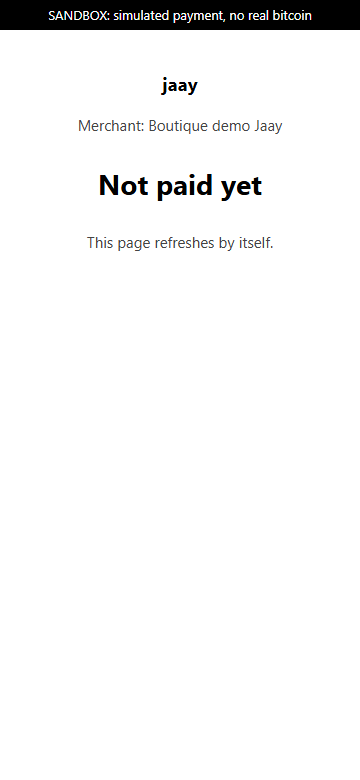
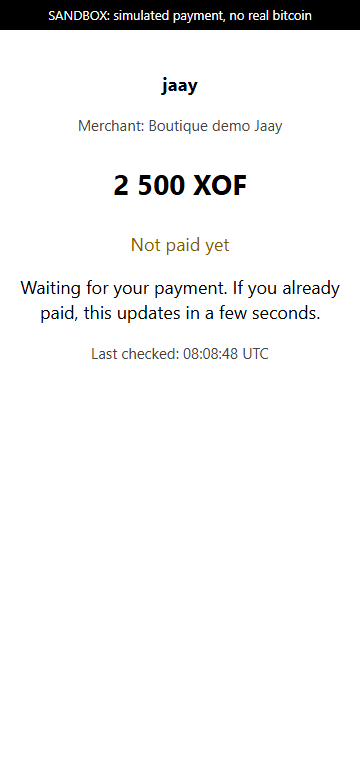
test(e2e), docs: no-horizontal-scroll checks at 320/360/412, refreshed EN and FR screens

Changed region(s): [[0.0611, 0.3077, 0.9472, 0.4615], [0.275, 0.2154, 0.7333, 0.2769]]

diff --git a/apps/pos/e2e/e2e.ts b/apps/pos/e2e/e2e.ts
@@ -17,6 +17,10 @@ const SERVER = fileURLToPath(new URL("../../server", import.meta.url));
 const SIM = fileURLToPath(new URL("../../customer-sim", import.meta.url));
 const SCREENS = fileURLToPath(new URL("../../../docs/screens", import.meta.url));
 const DIST = join(POS, "dist");
+// E2E_WIDTH=320|360|412 runs the whole suite at that width (default 360; screenshots only at 360). E2E_ONLY=layout runs just the layout step.
+const WIDTH = Number(process.env.E2E_WIDTH ?? 360);
+const ONLY = process.env.E2E_ONLY;
+const LAYOUT_WIDTHS = [...new Set([320, 360, WIDTH])];
 const PORT = 8797;
 const B = `http://localhost:${PORT}`;
 const HOST = `localhost:${PORT}`;
@@ -85,7 +89,7 @@ async function customerPays(qr: string): Promise<{ sid: string; code: string }> 
   const paid = await fetch(`${B}/sandbox/pay/${sid}`, { method: "POST" });
   assert(paid.ok, "sandbox pay failed");
   const html = await (await fetch(cb.successAction.url)).text();
-  const code = /class="code">(\d{6})</.exec(html)?.[1];
+  const code = codeIn(html);
   assert(code, "no code on the receipt page");
   return { sid, code: code! };
 }
@@ -117,15 +121,105 @@ async function statusOf(page: Page, sid: string): Promise<string | null> {
   await page.click("#tab-ledger");
   return page.getAttribute(`li[data-sid="${sid}"]`, "data-status");
 }
-const launch = (dir: string, offline = false) => chromium.launchPersistentContext(dir, { viewport: { width: 360, height: 780 }, locale: "en-US", offline });
+const launch = (dir: string, offline = false) => chromium.launchPersistentContext(dir, { viewport: { width: WIDTH, height: 780 }, locale: "en-US", offline });
+const shot = (page: Page, name: string, fullPage = false) => (WIDTH === 360 ? page.screenshot({ path: join(SCREENS, `${name}.png`), fullPage }) : Promise.resolve());
+mkdirSync(join(SCREENS, "fr"), { recursive: true });
 const sidOf = async (qr: string) => (await decodeSale((await tokenOf(qr)).token, keys, { minAmountXof: 1, maxAmountXof: 0xffffffff })).sid;
 
 
+// ---------- layout: no horizontal scroll on every screen, EN and FR; FR screenshot set at 360 px ----------
+const codeIn = (html: string) => (/class="vh">(\d{6})</.exec(html) ?? /class="code">(\d{6})</.exec(html))?.[1];
+await step("layout", `no horizontal scroll at ${LAYOUT_WIDTHS.join(", ")} px (EN, FR): PWA screens, simulator, receipt; primary button above the fold at 640 px high`, async () => {
+  const bad: string[] = [];
+  const seen: string[] = [];
+  for (const w of LAYOUT_WIDTHS) {
+    for (const lang of ["en", "fr"] as const) {
+      const ldir = mkdtempSync(join(tmpdir(), "jaay-layout-"));
+      const lctx = await chromium.launchPersistentContext(ldir, { viewport: { width: w, height: 640 }, locale: lang === "fr" ? "fr-FR" : "en-US" });
+      const shots = w === 360 && lang === "fr" && WIDTH === 360;
+      if (process.env.E2E_DEBUG) console.log(`  layout run ${w} ${lang}`);
+      const check = async (pg: Page, name: string) => {
+        const [sw, cw] = await pg.evaluate(() => [document.documentElement.scrollWidth, document.documentElement.clientWidth]);
+        seen.push(name);
+        if (sw !== cw) bad.push(`${w} ${lang} ${name}: ${sw} > ${cw}`);
+        if (shots) await pg.evaluate(() => scrollTo(0, 0));
+        if (shots && ["sell", "confirm", "wallet", "receipt-before", "receipt-after", "sim-request", "ledger"].includes(name)) await pg.screenshot({ path: join(SCREENS, "fr", `${name}.png`), fullPage: !["sell", "wallet"].includes(name) });
+      };
+      try {
+        const app = lctx.pages()[0] ?? (await lctx.newPage());
+        await app.goto(`${B}/app/`);
+        await app.waitForSelector("#demo-shop");
+        await check(app, "enroll");
+        await app.click("#demo-shop");
+        await app.check("#enroll-check");
+        await app.click("#enroll-submit");
+        await app.waitForSelector("#create");
+        await check(app, "keypad");
+        const qr = await sell(app, 2500);
+        await check(app, "sell");
+        const fold = await app.evaluate(() => {
+          const b = document.querySelector("#to-confirm")!.getBoundingClientRect();
+          const nav = document.querySelector("nav.tabs")!.getBoundingClientRect();
+          const hit = document.elementFromPoint(b.left + b.width / 2, b.top + b.height / 2);
+          return { bottom: Math.round(b.bottom), limit: Math.round(nav.top), hit: hit?.id ?? hit?.tagName };
+        });
+        if (fold.bottom > fold.limit || fold.hit !== "to-confirm") bad.push(`${w} ${lang} primary button below the fold: bottom ${fold.bottom}, nav at ${fold.limit}, hit ${fold.hit}`);
+        if (await app.$("#demo-tools summary")) await app.click("#demo-tools summary");
+        await check(app, "sell-demo-tools");
+
+        const sim = await lctx.newPage();
+        await sim.goto(`${B}/sim/?lnurl=${encodeURIComponent(qr)}`);
+        await sim.waitForSelector("#step1");
+        await check(sim, "sim-request");
+        const desc = (await sim.textContent("#desc"))!;
+        const receipt = await lctx.newPage();
+        await receipt.goto(/https?:\/\/\S+\/r\/[A-Za-z0-9_-]{22}/.exec(desc)![0]);
+        await check(receipt, "receipt-before");
+        await sim.click("#pay");
+        await sim.waitForSelector("#step3");
+        await sim.click("#raw summary");
+        await check(sim, "sim-paid");
+        await receipt.goto((await sim.getAttribute("#success-link", "href"))!);
+        const code = codeIn(await receipt.content());
+        assert(code, "no code on the paid receipt");
+        await check(receipt, "receipt-after");
+
+        await app.bringToFront();
+        await app.click("#to-confirm");
+        await check(app, "confirm-empty");
+        await typeCode(app, code === "000000" ? "111111" : "000000");
+        await check(app, "confirm");
+        await typeCode(app, code!);
+        await check(app, "confirm-ok");
+        await app.click("#next");
+        await app.waitForSelector("#create"); // the handler awaits before switching screens
+        await app.click("#tab-settings");
+        await app.click("#demo-load");
+        await app.waitForSelector("#demo-note");
+        await check(app, "settings");
+        await app.click("#tab-ledger");
+        await check(app, "ledger");
+        await app.click("#tab-wallet");
+        await app.waitForSelector("#wallet-all");
+        await app.waitForSelector("#wallet-recent li", { timeout: 10_000 }).catch(() => {});
+        if (await app.$("#wallet-details summary")) await app.click("#wallet-details summary");
+        await check(app, "wallet");
+      } finally {
+        await lctx.close();
+      }
+    }
+  }
+  for (const b of bad) console.log(`  layout: ${b}`);
+  assert(bad.length === 0, `${bad.length} problems (listed above)`);
+  return `${seen.length} screen checks, none wider than the viewport`;
+});
+
+if (!ONLY) {
 try {
   // The full judge flow, in its own fresh profile: no enrollment code, no wallet, no internet.
   await step("judge", "judge flow: demo shop, 2 500 F sale, copy, simulator pays, receipt code, merchant confirms; demo data matches Wallet", async () => {
     const jdir = mkdtempSync(join(tmpdir(), "jaay-judge-"));
-    const jctx = await chromium.launchPersistentContext(jdir, { viewport: { width: 360, height: 780 }, locale: "en-US" });
+    const jctx = await chromium.launchPersistentContext(jdir, { viewport: { width: WIDTH, height: 780 }, locale: "en-US" });
     await jctx.grantPermissions(["clipboard-read", "clipboard-write"], { origin: B });
     const app = jctx.pages()[0] ?? (await jctx.newPage());
     try {
@@ -138,11 +232,14 @@ try {
       await app.click("#enroll-submit");
       await app.waitForSelector("#tab-sell");
       const qr = await sell(app, 2500);
+      assert(!(await app.isVisible("#copy")), "demo tools should start collapsed");
+      await app.click("#demo-tools summary");
       assert(await app.isVisible("#copy"), "copy helper missing in sandbox");
       await app.click("#copy");
       const copied = await app.evaluate(() => navigator.clipboard.readText());
       assert(copied === qr, "clipboard differs from the QR string");
-      await app.screenshot({ path: join(SCREENS, "sell.png") });
+      await app.evaluate(() => scrollTo(0, 0));
+      await shot(app, "sell");
       const simHref = (await app.getAttribute("#open-sim", "href"))!;
       assert(simHref === `/sim/?lnurl=${encodeURIComponent(qr)}`, "simulator link");
 
@@ -152,29 +249,31 @@ try {
       assert((await sim.textContent("#sandbox")) === "SANDBOX customer wallet (simulator, not a real wallet)", "simulator label");
       const desc = (await sim.textContent("#desc"))!;
       assert(desc.includes("2500 XOF") && desc.includes("fixed demo rate"), `description "${desc}"`);
-      assert((await sim.textContent("#msat"))!.includes("6,250 sats"), "amount");
-      await sim.screenshot({ path: join(SCREENS, "sim-request.png") });
+      assert((await sim.textContent("#msat"))!.includes("6\u00a0250\u00a0000 msat (6\u00a0250 sats)"), `amount "${await sim.textContent("#msat")}"`);
+      await shot(sim, "sim-request");
       const fallback = /https?:\/\/\S+\/r\/[A-Za-z0-9_-]{22}/.exec(desc)![0];
       const receipt = await jctx.newPage();
       await receipt.goto(fallback);
       assert(!(await receipt.content()).includes('class="code"'), "code visible before payment");
-      await receipt.screenshot({ path: join(SCREENS, "receipt-before.png") });
+      await shot(receipt, "receipt-before");
 
       await sim.click("#pay");
       await sim.waitForSelector("#step3");
+      assert(await sim.isVisible("#step2 .msg.ok"), "description hash (with the accented metadata text) does not match");
       const link = (await sim.getAttribute("#success-link", "href"))!;
       assert(new URL(link).host === HOST, "success link host");
       assert(sim.context().pages().length === 3, "the simulator opened something by itself");
-      await sim.screenshot({ path: join(SCREENS, "sim-paid.png"), fullPage: true });
+      await shot(sim, "sim-paid", true);
       await receipt.goto(link);
-      const code = /class="code">(\d{6})</.exec(await receipt.content())?.[1];
+      const code = codeIn(await receipt.content());
       assert(code, "no code after payment");
-      await receipt.screenshot({ path: join(SCREENS, "receipt-after.png") });
+      await shot(receipt, "receipt-after");
 
       await app.bringToFront();
       await app.click("#to-confirm");
       assert((await typeCode(app, code!)) === "Payment confirmed.", "confirm");
       await app.click("#next");
+      await app.waitForSelector("#create"); // the handler awaits before switching screens
 
       await app.click("#tab-settings");
       await app.click("#demo-load");
@@ -198,8 +297,9 @@ try {
       await app.click("#tab-wallet");
       await app.waitForSelector("#wallet-all");
       await app.waitForFunction((want) => document.querySelector("#wallet-all")?.textContent?.replace(/\D/g, "") === String(want), ledgerSum, { timeout: 10_000 });
-      await app.screenshot({ path: join(SCREENS, "wallet.png"), fullPage: true });
+      await shot(app, "wallet");
       assert(ledgerSum === 2500 + 80850, `ledger paid total ${ledgerSum}`);
+      assert((await app.locator('#wallet-recent li[data-demo="1"] .st-demo').count()) === 12, "demo rows not labeled in Wallet");
       return `code typed, confirmed; Wallet all time ${ledgerSum} F = ledger paid total`;
     } finally {
       await jctx.close();
@@ -306,9 +406,27 @@ try {
     await page.click("#to-confirm");
     const r1 = await typeCode(page, wrong);
     const r2 = await typeCode(page, wrong);
-    await page.screenshot({ path: join(SCREENS, "confirm.png") });
+    await shot(page, "confirm");
+    assert(r1 === "Code not accepted. 2 attempts left." && r2 === "Code not accepted. 1 attempt left.", `first two: ${r1} / ${r2}`);
+    // The counter text after a reload is read from the persisted record and matches it.
+    await ctx.setOffline(true);
+    await page.reload();
+    await page.waitForSelector("#to-confirm");
+    await page.click("#to-confirm");
+    const shown = await page.textContent("#attempts");
+    const stored = await page.evaluate(async (s) => {
+      const db = await new Promise<IDBDatabase>((r) => {
+        const o = indexedDB.open("jaay-pos");
+        o.onsuccess = () => r(o.result);
+      });
+      return new Promise<number>((r) => {
+        const q = db.transaction("sales").objectStore("sales").get(s);
+        q.onsuccess = () => r((q.result as { attempts: number }).attempts);
+      });
+    }, sid);
+    assert(stored === 2 && shown === "1 attempt left.", `after reload: stored ${stored}, shown "${shown}"`);
+    assert((await page.textContent("#sale-id"))?.startsWith("Sale "), "sale identity missing");
     const r3 = await typeCode(page, wrong);
-    assert(r1 === "Code not accepted." && r2 === "Code not accepted.", `first two: ${r1} / ${r2}`);
     assert(r3.startsWith("Too many wrong codes"), `third: ${r3}`);
     const r4 = await typeCode(page, right);
     assert(r4.startsWith("This sale cannot be confirmed here"), `fourth: ${r4}`);
@@ -364,7 +482,7 @@ try {
     for (const [sid, st] of Object.entries(want)) await page.waitForSelector(`li[data-sid="${sid}"][data-status="${st}"]`, { timeout: 20_000 });
     const note = await page.textContent(`li[data-sid="${offline.leaked}"] .hint`);
     assert(note?.includes("server shows no matching payment"), `mismatch note "${note}"`);
-    await page.screenshot({ path: join(SCREENS, "ledger.png") });
+    await shot(page, "ledger");
     return "paid, paid, mismatch";
   });
 
@@ -429,6 +547,7 @@ try {
 } finally {
   await stopAll(ctx);
 }
+} else server.kill();
 
 // f. size budget (first load = everything the shell precaches, gzipped)
 await step("f", "first load under 150 KB gzipped (HTML, JS, CSS, SW, manifest, icons)", async () => {

diff --git a/docs/ROADMAP.md b/docs/ROADMAP.md
@@ -148,3 +148,4 @@ Signed Nostr receipt event; Wolof strings; second backend adapter demo; USSD-sty
 | 2026-11-14 09:55 EAT | P2 M3 A | Server additions, each test first: device-signed requests (A1), POST /v1/sales/reconcile (A2), POST /v1/wallet/summary (A3), JAAY_ENROLL_TOKEN for non-sandbox enrollment (A4), BOLT11 decode check on every invoice with light-bolt11-decoder (A5), PWA served at /app/ with a self-only CSP (A6). Server tests 141 green. |
 | 2026-11-14 10:20 EAT | P2 M3 B | Merchant PWA (apps/pos, vanilla TS). Unit tests 140 green (ledger table all 99 pairs, attempt cap with crash, enrollment secret scan, reconcile merge, signing interop, i18n, money, no-console). Playwright e2e 9/9 on three runs: golden path, offline golden path with reconcile (paid, paid, mismatch), cold start offline, 3-code lock across reload, host and QR decode, update flow, first load 21.8 KB gzipped. Lighthouse NOT RUN; real phone airplane mode NOT RUN. |
 | 2026-11-14 11:15 EAT | P3 M4 | Judge path. Server: fixed demo rate (SANDBOX only, labeled), /sandbox/seed and unseed, pay by payment hash, receipt label (escaped) and sats, /sim/ serving; 155 tests. Customer simulator at /sim/ (33 tests, 10.6 KB gz). PWA demo shop, sandbox helpers, demo data, PNG icons and manifest (148 tests counting demo). pnpm demo plus pnpm smoke: SMOKE OK (15 steps). e2e 13/13 on three consecutive runs, offline-safe (judge flow, manifest and icons, a to g, PWA 31.7 KB and simulator 10.6 KB gz). Docker and every hosting path NOT RUN. |
+| 2026-11-17 12:00 EAT | P4 M5 (part) | Design review pass. Already fine: no horizontal scroll anywhere at 320/360/412 (EN, FR), simulator FR accents. Changed: sell order and Demo tools, check-code screen (attempts text from the persisted counter, sale identity, Back to sales, 6-digit gate), Wallet layout and demo tags, receipt pending (amount, waiting text, server last-checked) and paid (grouped code, keep-page note), simulator digit grouping, Reçu in LNURL metadata. Skipped item 8 (accent colour conflicts with CLAUDE.md). Server 157, pos 145, sim 33, protocol 127; e2e 14/14 at 320, 360 and 412 with the new layout step (84 checks). Screens refreshed (EN 360, FR set in docs/screens/fr). Real phones, Safari, Firefox NOT RUN. |

diff --git a/docs/ARCHITECTURE.md b/docs/ARCHITECTURE.md
@@ -272,7 +272,7 @@ A page that plays an LNURL-pay wallet, always labeled "SANDBOX customer wallet (
 ### Sandbox helpers in the merchant PWA
 
 - **Try the sandbox demo shop** (Enroll screen, only when `/healthz` says sandbox): calls the open sandbox enrollment and feeds the answer into the normal enrollment path: the same strict parser, the same host confirmation, the same non-extractable key derivation. The secret is never put in the visible text box.
-- **Copy payment string** and **Open customer simulator** under the QR: decided by `sandboxHelpers(config, qr)`, which returns null unless the device config says sandbox (unit tested).
+- **Copy payment string** and **Open customer simulator** in a collapsed **Demo tools (SANDBOX)** section under the sale buttons: decided by `sandboxHelpers(config, qr)`, which returns null unless the device config says sandbox (unit tested).
 - **Load demo data / Remove demo data** (Settings, sandbox only): 12 deterministic sales over the last 3 days (500 to 25 000 F, three sample merchant types), flagged `demo`. The server is seeded first through `POST /sandbox/seed` (device-signed, sandbox only, at most 50 sales, paid within the last 30 days, idempotent per sid, marked demo), then the local ledger. `POST /sandbox/unseed` and the local delete remove only demo rows. Wallet totals and reconcile therefore agree with the ledger (checked by the e2e judge flow).
 
 ### Receipt page

diff --git a/docs/QUICKSTART.md b/docs/QUICKSTART.md
@@ -27,7 +27,7 @@ Nothing opens by itself. Stop with Ctrl+C. Check it from another terminal with `
 
    ![Sell screen with the QR and the sandbox helpers](screens/sell.png)
 
-3. Tap **Open customer simulator** (or copy the payment string and paste it into /sim/). The simulator shows what a wallet sees: the description, the amount in sats and the XOF price.
+3. Open **Demo tools (SANDBOX)** under the sale buttons and tap **Open customer simulator** (or copy the payment string and paste it into /sim/). The simulator shows what a wallet sees: the description, the amount in sats and the XOF price.
 
    ![Simulator: payment request](screens/sim-request.png)
 
@@ -43,7 +43,7 @@ Nothing opens by itself. Stop with Ctrl+C. Check it from another terminal with `
 
    ![Receipt after payment](screens/receipt-after.png)
 
-7. Back in the merchant app, tap **Customer paid: enter code** and type the 6 digits. The app checks the code with its own key (3 attempts at most) and shows **Payment confirmed**. The code itself never appears on the merchant screen.
+7. Back in the merchant app, tap **Customer paid? Enter the code** and type the 6 digits. The app checks the code with its own key (3 attempts at most; after a wrong code it says only "Code not accepted" and how many attempts are left) and shows **Payment confirmed**. The code itself never appears on the merchant screen.
 
    ![Confirm screen](screens/confirm.png)
 

diff --git a/docs/API.md b/docs/API.md
@@ -101,7 +101,7 @@ Response `200`:
   "callback": "https://pay.example.org/lnurlp/cb?p=<token>",
   "minSendable": 1520000,
   "maxSendable": 1520000,
-  "metadata": "[[\"text/plain\",\"Jaay: 1000 XOF. Recu / receipt: https://pay.example.org/r/<receiptToken>\"]]",
+  "metadata": "[[\"text/plain\",\"Jaay: 1000 XOF. Reçu / receipt: https://pay.example.org/r/<receiptToken>\"]]",
   "commentAllowed": 0
 }
 ```
@@ -252,7 +252,7 @@ Device authenticated, body `{}`. Feeds the receive-only Wallet screen.
   "receiveOnly": true,
   "backend": { "kind": "nwc", "label": "Nostr Wallet Connect (receive-only connection)", "available": true, "spendMethods": [], "balanceMsat": null, "balanceNote": null },
   "totals": { "today": { "xof": 2500, "msat": "6115000", "count": 1 }, "allTime": { "xof": 3500, "msat": "8561000", "count": 2 } },
-  "recent": [ { "sid": "AbCdEf", "amountXof": 2500, "paidAt": "2026-11-14T09:00:02.000Z", "status": "paid" } ],
+  "recent": [ { "sid": "AbCdEf", "amountXof": 2500, "paidAt": "2026-11-14T09:00:02.000Z", "status": "paid", "demo": false } ],
   "generatedAt": "2026-11-14T09:05:00.000Z"
 }
 ```
